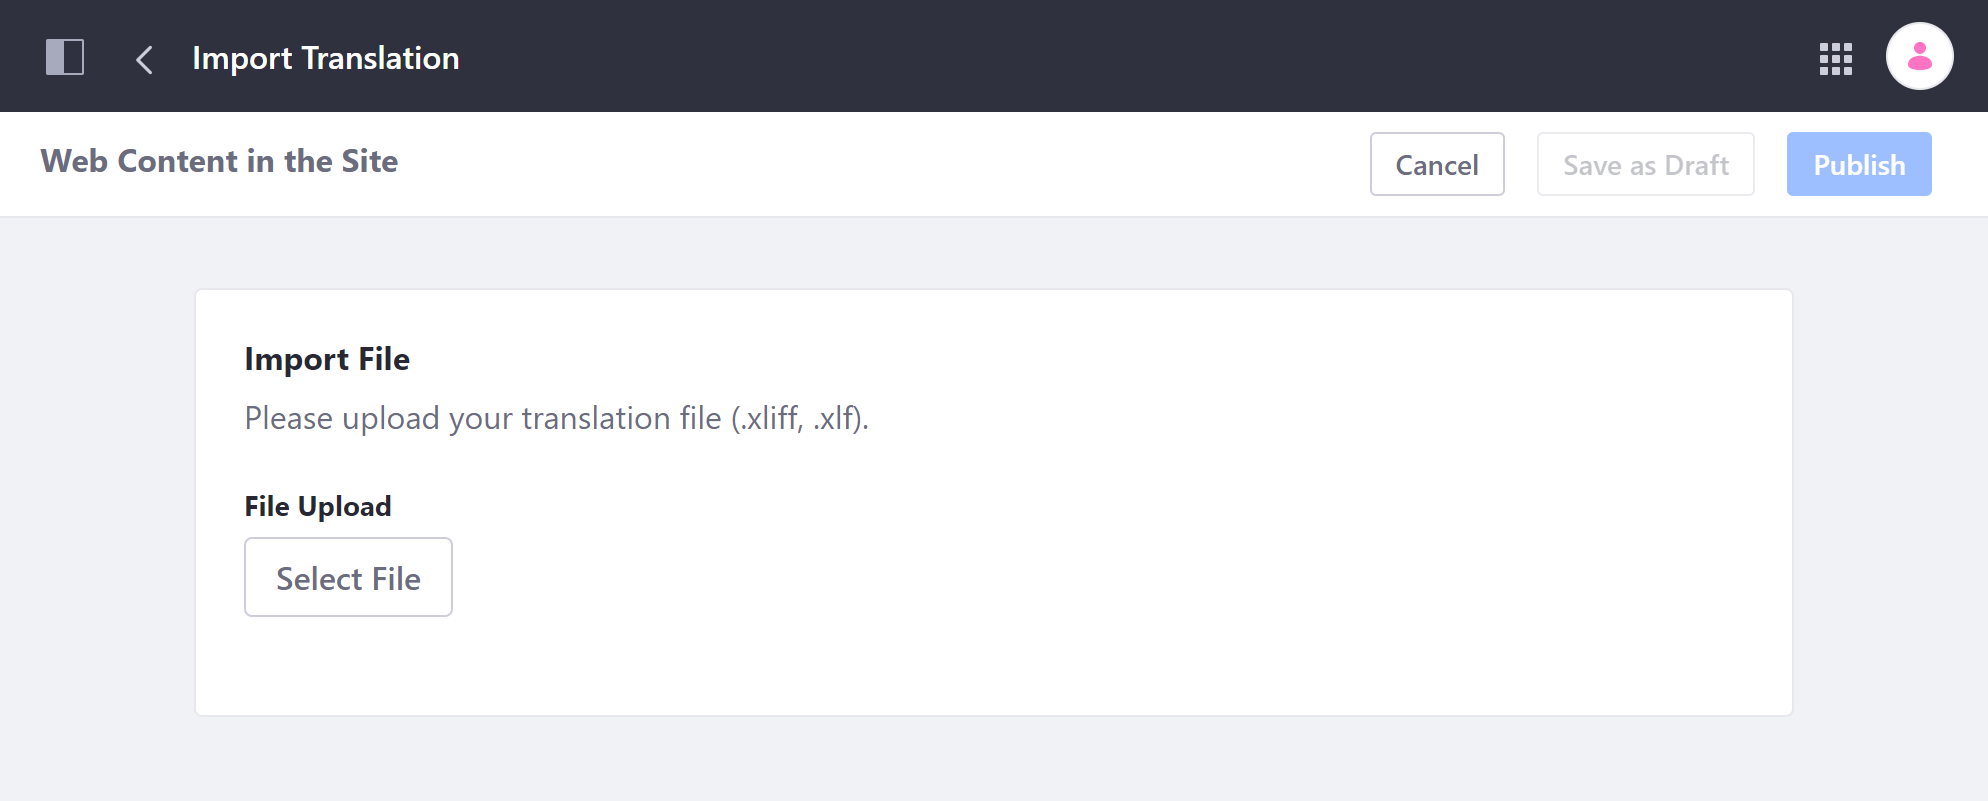
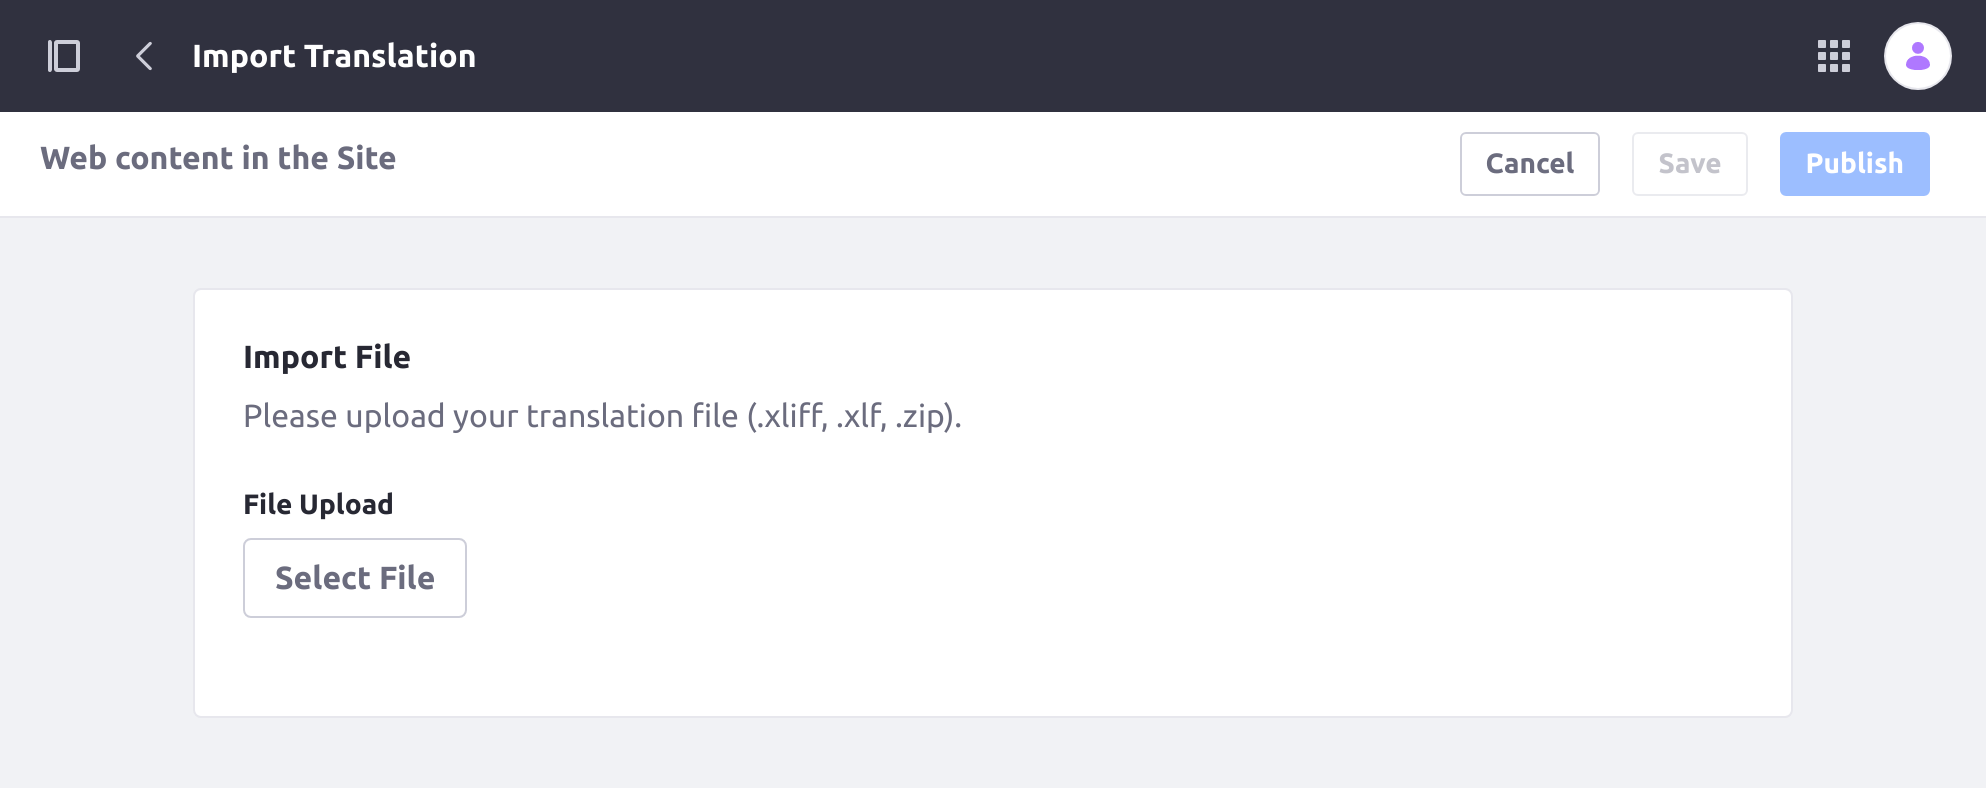
LRDOCS-10124 explains using .zip files for import, updates img, wordsmithing

diff --git a/docs/dxp/latest/en/content-authoring-and-management/web-content/translating-web-content/exporting-and-importing-translations.md b/docs/dxp/latest/en/content-authoring-and-management/web-content/translating-web-content/exporting-and-importing-translations.md
@@ -1,50 +1,58 @@
 # Exporting and Importing Translations
 
-Exporting your web content to the XLIFF format is an alternative to manual translation in Liferay. XLIFF (1.2 or 2.0) is the main interchange format used for dedicated translation software. Exported translations can be sent to professional translators and imported to provide translations for your content.
+> Available for Liferay DXP 7.3+ and Liferay Portal 7.3+
 
-```{note}
-To export web content for translation or import content translations, you must have *View* and *Update* permissions for the selected content. See [Managing Permissions for Translation](./manually-translating-web-content.md#managing-permissions-for-translation).
+With Liferay, you can export Web Content for translation as `.xliff` or `.xlf` files. These files can then be sent to professional translators to produce your desired translations. Once translated, you can import the translations together as a `.zip` file or individually as `.xliff` or `.xlf` files.
+
+```{important}
+Liferay supports both XLIFF 1.2 and 2.0 files. However, it may not support all features and capabilities those formats provide.
 ```
+
+To export content for translation or import translations, you must have *View* and *Update* permissions for the selected content. See [Managing Permissions for Translation](./manually-translating-web-content.md#managing-permissions-for-translation).
 
 ## Exporting Content for Translation
 
-1. Open the Product menu, and go to *Content & Data* &rarr; *Web Content*.
+Follow these steps to export Web Content for translation:
 
-1. Click the *Actions* menu ( ![Actions button](../../../images/icon-actions.png) ) for the web content you want to translate and select *Export for Translation*. This opens a modal window that you can use to configure your export.
+1. Open the *Site Menu* (![Site Menu](../../../images/icon-product-menu.png)) and go to *Content & Data* &rarr; *Web Content*.
 
-   ![Click on the Actions menu for the web content you want to translate, and select Export for Translation.](./exporting-and-importing-translations/images/01.png)
+1. Click the *Actions* menu ( ![Actions button](../../../images/icon-actions.png) ) for the Web Content you want to translate and select *Export for Translation*. This opens a modal window that you can use to configure your export.
 
-1. Select the Export format (XLIFF 1.2 or XLIFF 2.0)
+   ![Click on the Actions menu for the Web Content you want to translate, and select Export for Translation.](./exporting-and-importing-translations/images/01.png)
 
-1. Specify the web content's original language. This is used as a reference for the translation.
+1. Select an Export format: *XLIFF 1.2* or *XLIFF 2.0*.
 
-1. Select the languages for translation using the checkboxes. 
+1. Specify the Web Content's original language. This is used as a reference for the translation.
 
-   ![Select the languages to which you want to translate the web content.](./exporting-and-importing-translations/images/02.png)
+1. Use the checkboxes to select the languages you want to translate the content into.
+
+   ![Select the languages you want to translate the content into.](./exporting-and-importing-translations/images/02.png)
 
 1. When finished, click *Export* to begin exporting for translation.
 
-Liferay generates a Zip archive for download that contains as many XLIFF files as languages you've selected for translation. These files can be used with compatible translation software to translate your web content.
+Liferay generates a Zip archive for download that contains as many XLIFF files as languages you've selected for translation. These files can be used with compatible translation software to translate your Web Content.
 
 ## Importing Content Translations
 
-Once your translations are ready, follow these steps to import them to your web content.
+Once your translations are ready, follow these steps to import them:
 
 1. Open the Product menu and go to *Content & Data* &rarr; *Web Content*.
 
-1. Click the *Actions* menu ( ![Actions button](../../../images/icon-actions.png) ) for the translated web content and select *Import Translation*.
+1. Click the *Actions* menu ( ![Actions button](../../../images/icon-actions.png) ) for the translated Web Content and select *Import Translation*.
 
-   ![Click on the Actions menu for the translated web content, and select import translation.](./exporting-and-importing-translations/images/03.png)
+   ![Click on the Actions menu for the translated Web Content, and select import translation.](./exporting-and-importing-translations/images/03.png)
 
-1. Select the translation file you want to import and then publish your changes.
+1. Select the `.xliff` or `.xlf` file you want to import, or import multiple translation files as a `.zip` file.
 
    ![Select the translation file you want to import.](./exporting-and-importing-translations/images/04.png)
 
-When the import completes, the web content is updated with all changes included in the XLIFF file. If workflow is enabled, this change must be approved as with other content updates.
+   ```{important}
+   While Liferay supports importing XLIFF files created using the *Export for Translation* action, it cannot guarantee the successful import of files generated by other means.
+   ```
 
-```{note}
-Although Liferay supports both XLIFF 1.2 and 2.0, it may not support all features and capabilities those formats provide. Also, while Liferay supports importing XLIFF files created using the *Export for Translation* action, it cannot guarantee the successful import of files generated by other means.
-```
+1. Click *Publish*.
+
+When the import completes, the Web Content is updated with all changes included in the translation files. If workflow is enabled, this change must be approved as with other content updates.
 
 ## Additional Information
 
